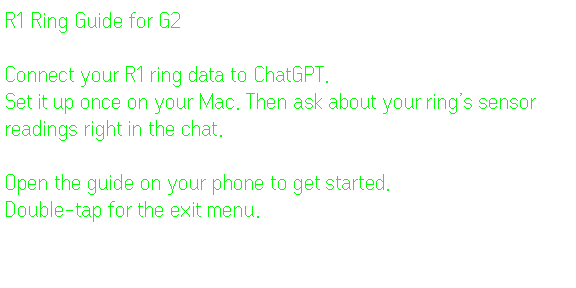
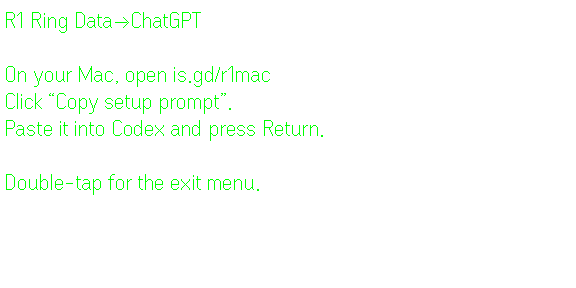
feat(evenhub): show the Mac setup link on G2
- Name the candidate for the R1-to-ChatGPT connection and keep the full English title as its tagline.
- Display a verified short address and the steps for pasting the setup prompt into Codex on the Mac.
- Update the listing, package name, simulator screenshot and tests for the phone and glasses.

diff --git a/evenhub/src/index.html b/evenhub/src/index.html
@@ -3,7 +3,7 @@
 <head>
   <meta charset="utf-8">
   <meta name="viewport" content="width=device-width, initial-scale=1">
-  <title>R1 Ring Guide for G2</title>
+  <title>R1 Ring Data→ChatGPT</title>
   <style>
     :root { font: 100%/1.5 system-ui, sans-serif; color: #17362b; background: #f4f6ef; }
     * { box-sizing: border-box; }
@@ -12,24 +12,19 @@
     h1 { margin: 0 0 2rem; font-size: 1rem; font-weight: 650; }
     h2 { max-width: 15ch; margin: 0 0 .7rem; font-size: clamp(2rem, 8vw, 3rem); letter-spacing: -.035em; line-height: 1.08; }
     p { margin: .6rem 0 1.35rem; font-size: 1.125rem; }
-    a { display: inline-block; padding: .75rem 1.25rem; border-radius: .6rem; background: #214b3b; color: white; font-weight: 650; text-decoration: none; }
-    details { margin-top: 1rem; font-size: .92rem; }
-    summary { display: list-item; width: fit-content; padding: .55rem 0; cursor: pointer; }
-    #guide-url { display: block; overflow-wrap: anywhere; user-select: all; }
+    a { color: #214b3b; text-underline-offset: .18em; }
+    #setup-address { display: inline-block; color: #17362b; background: #e3eadf; padding: .25rem .55rem; border-radius: .35rem; font-weight: 700; font-size: 1.35rem; user-select: all; -webkit-user-select: all; }
     :focus-visible { outline: 3px solid #3b7359; outline-offset: 3px; }
     #status { font-size: .875rem; }
   </style>
 </head>
 <body>
   <main>
-    <h1>R1 Ring Guide for G2</h1>
-    <h2>Connect your R1 ring data to ChatGPT.</h2>
-    <p>Set it up once on your Mac. Then ask about your ring’s sensor readings right in the chat.</p>
-    <a href="https://daviddemri26.github.io/even-r1-ring-exporter-for-mac/guides/install/" target="_blank" rel="noopener noreferrer">Set up on Mac</a>
-    <details>
-      <summary>Show the address to open on your Mac</summary>
-      <span id="guide-url">https://daviddemri26.github.io/even-r1-ring-exporter-for-mac/guides/install/</span>
-    </details>
+    <h1>R1 Ring Data→ChatGPT</h1>
+    <h2>Connect R1 Ring Data to ChatGPT</h2>
+    <p>On your Mac, open <strong id="setup-address">is.gd/r1mac</strong>.</p>
+    <p>Click <strong>Copy setup prompt</strong>. Paste it into Codex on your Mac and press Return. Codex installs the exporter and connects it to ChatGPT. You handle sign-ins and permissions.</p>
+    <a href="https://daviddemri26.github.io/even-r1-ring-exporter-for-mac/guides/install/" target="_blank" rel="noopener noreferrer">Preview the Mac setup page on this phone</a>
     <p id="status" role="status"></p>
   </main>
   <script type="module" src="./guide-bundle.js"></script>

diff --git a/evenhub/src/guide.test.js b/evenhub/src/guide.test.js
@@ -18,10 +18,12 @@ test('the G2 starts on a single setup screen and double-tap opens the system exi
   assert.equal(display.width, 576);
   assert.equal(display.height, 288);
   assert.equal(display.isEventCapture, 1);
-  assert.match(display.content, /^R1 Ring Guide for G2\n/);
-  assert.match(display.content, /Connect your R1 ring data to ChatGPT/);
-  assert.match(display.content, /sensor readings right in the chat/);
-  assert.match(display.content, /Open the guide on your phone/);
+  const manifest = JSON.parse(await readFile(new URL('../app.json', import.meta.url), 'utf8'));
+  assert.equal(display.content.split('\n')[0], manifest.name);
+  assert.ok([...manifest.name].length <= 20);
+  assert.match(display.content, /On your Mac, open is\.gd\/r1mac/);
+  assert.match(display.content, /Copy setup prompt/);
+  assert.match(display.content, /Paste it into Codex and press Return/);
 
   onEvent({sysEvent: {eventSource: 1}});
   onEvent({textEvent: {containerID: 1, eventType: OsEventTypeList.CLICK_EVENT}});
@@ -34,9 +36,11 @@ test('the G2 starts on a single setup screen and double-tap opens the system exi
 test('the phone provides one setup link and its address works without the glasses bridge', async () => {
   const page = await readFile(new URL('./index.html', import.meta.url), 'utf8');
   const setup = 'https://daviddemri26.github.io/even-r1-ring-exporter-for-mac/guides/install/';
-  assert.match(page, /<h1>R1 Ring Guide for G2<\/h1>/);
-  assert.match(page, /sensor readings right in the chat/);
+  assert.match(page, /<h1>R1 Ring Data→ChatGPT<\/h1>/);
+  assert.match(page, /Connect R1 Ring Data to ChatGPT/);
+  assert.match(page, /On your Mac, open <strong id="setup-address">is\.gd\/r1mac<\/strong>/);
+  assert.match(page, /Copy setup prompt/);
+  assert.match(page, /Paste it into Codex on your Mac and press Return/);
   const links = [...page.matchAll(/<a href="([^"]+)"[^>]*>([^<]+)<\/a>/g)];
-  assert.deepEqual(links.map(([,href,label]) => [href,label]), [[setup,'Set up on Mac']]);
-  assert.ok(page.includes('>' + setup + '</span>'));
+  assert.deepEqual(links.map(([,href,label]) => [href,label]), [[setup,'Preview the Mac setup page on this phone']]);
 });

diff --git a/evenhub/src/guide.js b/evenhub/src/guide.js
@@ -1,12 +1,12 @@
 import { CreateStartUpPageContainer, TextContainerProperty, OsEventTypeList } from '@evenrealities/even_hub_sdk';
 
 const displayText = [
-  'R1 Ring Guide for G2',
+  'R1 Ring Data→ChatGPT',
   '',
-  'Connect your R1 ring data to ChatGPT.',
-  'Set it up once on your Mac. Then ask about your ring’s sensor readings right in the chat.',
+  'On your Mac, open is.gd/r1mac',
+  'Click “Copy setup prompt”.',
+  'Paste it into Codex and press Return.',
   '',
-  'Open the guide on your phone to get started.',
   'Double-tap for the exit menu.'
 ].join('\n');
 

diff --git a/evenhub/src/main.js b/evenhub/src/main.js
@@ -2,5 +2,5 @@ import { waitForEvenAppBridge } from '@evenrealities/even_hub_sdk';
 import { showGuide } from './guide.js';
 
 waitForEvenAppBridge().then(showGuide).catch(() => {
-  document.querySelector('#status').textContent = 'The glasses display is unavailable. You can still open the setup guide here.';
+  document.querySelector('#status').textContent = 'The glasses display is unavailable. You can still start setup on your Mac.';
 });

diff --git a/evenhub/README.md b/evenhub/README.md
@@ -1,23 +1,18 @@
-# Even R1 Ring Guide for G2 Glasses
+# R1 Ring Data→ChatGPT
 
-**Connect your R1 ring data to ChatGPT.** Set it up once on your Mac. Then ask about your ring’s sensor readings right in the chat. The G2 companion displays this message and opens the setup guide from your phone. [Set up on your Mac](../docs/installation.md)
+**Connect R1 Ring Data to ChatGPT.** This G2 companion shows the short setup address on your glasses. Open [is.gd/r1mac](https://is.gd/r1mac) on your Mac, click **Copy setup prompt**, and paste it into Codex on that Mac. Codex installs the exporter and connects your ring data to ChatGPT. You handle sign-ins and permissions.
 
-## Get the glasses guide
+## Get the G2 companion
 
-```codex-prompt
-Get the optional Even R1 Ring Guide for G2 Glasses from https://daviddemri26.github.io/even-r1-ring-exporter-for-mac/guides/glasses/. Download its .ehpk file into my chosen project folder, or locate an existing copy there. Compare its SHA-256 with the same release’s published SHA256SUMS. Tell me the file name, location and result. Tell me which version I have. Leave my Mac exporter, health data and Even Hub account alone.
-```
-
-- **R1 Ring Guide for G2** is the one-screen **0.2.0 prototype**. On your phone, choose **Set up on Mac** to open the installation guide.
-- The [public alpha download](https://github.com/daviddemri26/even-r1-ring-exporter-for-mac/releases/download/v0.1.0-alpha.4/Even-R1-Ring-Guide-for-G2-Glasses.ehpk) contains the earlier **0.1.2** guide. The `.ehpk` file is for the glasses. The `.dmg` installs the Mac exporter.
+**0.2.0** is the current marketplace candidate. The [store listing](store-listing.md) includes the app description, release notes and simulator screenshot. The [Mac release](https://github.com/daviddemri26/even-r1-ring-exporter-for-mac/releases/tag/v0.1.0-alpha.5) still includes the earlier G2 package (0.1.2).
 
 ## Preview the companion on your Mac
 
 ```codex-prompt
-Help me preview the Even R1 Ring Guide for G2 Glasses on this Mac. Follow the optional G2 source build at https://daviddemri26.github.io/even-r1-ring-exporter-for-mac/guides/build/. Use the project source in my folder and report the version in evenhub/app.json. Use Node.js 22 and npm. In evenhub/, install locked dependencies, run the tests and pack the guide. Serve only evenhub/dist on a free loopback port. Open its phone interface and verify the screen matches that version. In 0.2.0, check the Mac setup link. Give me the local preview URL and the command to stop it.
+Help me preview the R1 Ring Data→ChatGPT on this Mac. Follow the optional G2 source build at https://daviddemri26.github.io/even-r1-ring-exporter-for-mac/guides/build/. Use the project source in my folder and report the version in evenhub/app.json. Use Node.js 22 and npm. In evenhub/, install locked dependencies, run the tests and pack the guide. Serve only evenhub/dist on a free loopback port. Open its phone interface and verify the screen matches that version. In 0.2.0, check the short address and the Mac setup link. Give me the local preview URL and the command to stop it.
 ```
 
-- With Node.js 22 and npm, run `npm ci && npm test && npm run pack` inside `evenhub/`. In the 0.2.0 source this produces `Even-R1-Ring-Guide-for-G2-Glasses-0.2.0.ehpk` and `dist/`. The build uses the official CLI and Even Hub SDK 0.0.16. [Build the tagged alpha](../docs/build-from-source.md)
+- With Node.js 22 and npm, run `npm ci && npm test && npm run pack` inside `evenhub/`. In the 0.2.0 source this produces `R1-Ring-Data-to-ChatGPT-for-G2-0.2.0.ehpk` and `dist/`. The build uses the official CLI and Even Hub SDK 0.0.16. [Build the tagged alpha](../docs/build-from-source.md)
 - From `evenhub/`, run the command below. Open `http://127.0.0.1:8080/` in your Mac browser. Press **Control-C** to stop the server.
 
 ```sh
@@ -29,7 +24,7 @@ For contributors, `app.json` is the manifest. The built `dist/` directory includ
 ## Test on physical G2 glasses
 
 ```codex-prompt
-Help me test Even R1 Ring Guide for G2 Glasses in Even Hub Prototype Mode on my own devices. Use https://daviddemri26.github.io/even-r1-ring-exporter-for-mac/guides/glasses/. Build the optional guide if needed. Help me confirm the Mac and iPhone are on the same trusted Wi-Fi, the G2 is paired and the Even Hub accounts match. Serve only the built evenhub/dist folder on the Mac’s Wi-Fi address. Generate a QR code with the project’s Even Hub CLI. Guide me through scanning, checking readability and confirming that double-tap opens the system exit menu. Stop the test server when I finish. Report which hardware steps I confirmed.
+Help me test R1 Ring Data→ChatGPT in Even Hub Prototype Mode on my own devices. Use https://daviddemri26.github.io/even-r1-ring-exporter-for-mac/guides/glasses/. Build the optional guide if needed. Help me confirm the Mac and iPhone are on the same trusted Wi-Fi, the G2 is paired and the Even Hub accounts match. Serve only the built evenhub/dist folder on the Mac’s Wi-Fi address. Generate a QR code with the project’s Even Hub CLI. Guide me through scanning, checking readability and confirming that double-tap opens the system exit menu. Stop the test server when I finish. Report which hardware steps I confirmed.
 ```
 
 1. Pair the G2 with the Even app. Use the same Even Hub account on the phone and for prototype testing. Connect the Mac and iPhone to the same trusted Wi-Fi.
@@ -45,6 +40,6 @@ python3 -m http.server 8080 --bind YOUR_MAC_IP --directory dist
 node node_modules/@evenrealities/evenhub-cli/main.js qr --url http://YOUR_MAC_IP:8080/
 ```
 
-4. In the Even app, open **Even Hub → Profile → Prototype Mode** and scan the code. Read the message on your glasses, open the setup guide from the phone, then double-tap on the glasses to check the exit menu. Stop the server with **Control-C** in the first Terminal. [Even’s developer tutorials](https://hub.evenrealities.com/docs/learn/videos)
+4. In the Even app, open **Even Hub → Profile → Prototype Mode** and scan the code. Read the instructions on your glasses, type the displayed short address on your Mac, then double-tap on the glasses to check the exit menu. Stop the server with **Control-C** in the first Terminal. [Even’s developer tutorials](https://hub.evenrealities.com/docs/learn/videos)
 
-Even Hub’s publication terms exclude health-related content and services. This companion points to a Mac exporter that handles ring sensor data. Clarify eligibility with Even before submitting. An eligible build also needs a beta test on physical G2 glasses with the phone locked. [Platform terms, section 3.3](https://support.evenrealities.com/hc/en-us/articles/15606676690703-Even-Hub-Developer-Platform-Terms-of-Service) · [Submission and QA](https://hub.evenrealities.com/docs/ship/app-submission)
+For store review, repeat the launch and exit test with a beta build on physical G2 glasses and the phone locked. [Beta testing](https://hub.evenrealities.com/docs/test/beta-testing) · [Submission and QA](https://hub.evenrealities.com/docs/ship/app-submission)

diff --git a/evenhub/store-listing.md b/evenhub/store-listing.md
@@ -1,35 +1,19 @@
-# R1 Ring Guide for G2
+# R1 Ring Data→ChatGPT
 
-## Store copy
+## Tagline
 
-**Tagline**
+Connect R1 Ring Data to ChatGPT
 
-Connect your R1 ring data to ChatGPT.
+## Description
 
-**Description**
+This G2 app links to the Mac setup page. On your Mac, open https://is.gd/r1mac and click “Copy setup prompt”. Paste the prompt into Codex and press Return. Codex installs the Mac exporter and connects your ring data to ChatGPT. You handle sign-ins and permissions.
 
-Set it up once on your Mac. Then ask about your ring’s sensor readings right in the chat. Open the setup guide on your phone to get started.
+## Release notes for 0.2.0
 
-**Release notes for 0.2.0**
-
-A single screen introduces the connection. Open the Mac setup guide from your phone.
+Your glasses now show a short address to type on your Mac and how to start setup with Codex.
 
 [Glasses screen captured in the Even Hub simulator](media/g2-connection-screen.png)
 
-**Privacy**
+## Privacy
 
-The glasses app displays a message and a link. It requests no device permissions and reads no measurements. [Project privacy guide](https://daviddemri26.github.io/even-r1-ring-exporter-for-mac/guides/privacy/)
-
-## Eligibility inquiry draft
-
-**Subject** — Is a G2 companion for an independent R1 exporter eligible?
-
-Hello Even Hub team,
-
-Our G2 prototype displays one message about connecting R1 ring data to ChatGPT. Its phone screen links to the setup guide for our independent Mac exporter. The glasses app reads no measurements. The separate Mac software handles sleep and activity data and connects to the user’s own ChatGPT account.
-
-Would this informational companion and its link be eligible for publication given the exclusion for health-related content in section 3.3?
-
-Thank you.
-
-[Even Hub Developer Platform Terms, section 3.3](https://support.evenrealities.com/hc/en-us/articles/15606676690703-Even-Hub-Developer-Platform-Terms-of-Service)
+The G2 app shows setup instructions and asks for no device permissions. It does not read ring measurements. You can open the Mac setup page from the phone. [G2 app privacy policy](https://github.com/daviddemri26/even-r1-ring-exporter-for-mac/blob/main/docs/privacy.md#g2-app-privacy-policy)

diff --git a/AGENTS.md b/AGENTS.md
@@ -1,8 +1,8 @@
 # Even R1 Ring Exporter for Mac development
 
-Use **Even R1 Ring Exporter for Mac** for the Mac application, **Even R1 Ring Data for ChatGPT** for the connector, and **Even R1 Ring Guide for G2 Glasses** for the offline glasses guide.
+Use **Even R1 Ring Exporter for Mac** for the Mac application, **Even R1 Ring Data for ChatGPT** for the connector, and **R1 Ring Data→ChatGPT** for the G2 setup companion.
 
-Use **R1 Ring Guide for G2** as the glasses app’s display and catalog name. Even Hub reserves names containing “Even” for approved affiliates.
+Use **R1 Ring Data→ChatGPT** as the glasses app’s display and catalog name and **Connect R1 Ring Data to ChatGPT** as its full tagline. Even Hub reserves names containing “Even” for approved affiliates.
 
 Use English for documentation, interface text, source identifiers, commit messages, and project filenames, including dotfiles. Preserve required third-party names and exact strings used to recognize localized Even or macOS controls.
 
